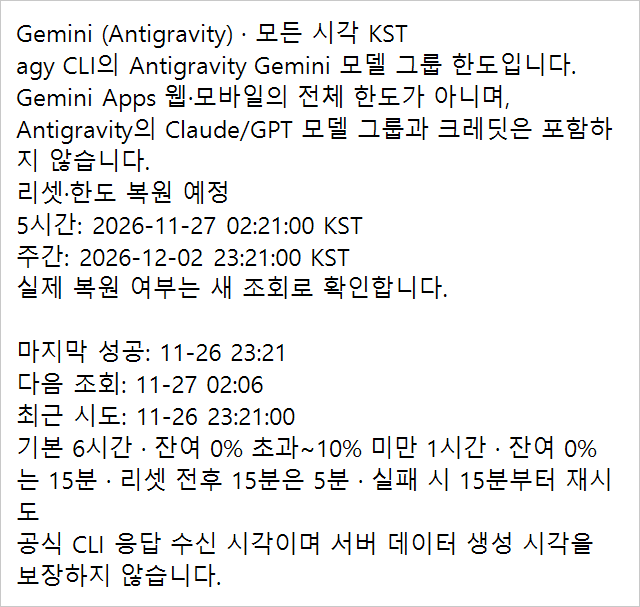
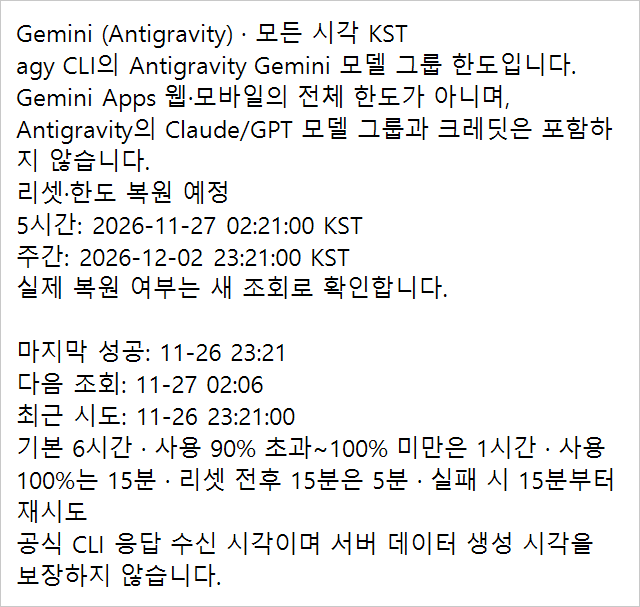
docs: record quota wording revalidation and Mac branch handoff

Changed region(s): [[0.0312, 0.7117, 0.9688, 0.86]]

diff --git a/QUOTA_USAGE_UI.md b/QUOTA_USAGE_UI.md
@@ -8,15 +8,49 @@ Windows 테스트 빌드의 사용량 막대·간략 시간·Provider별 상세 
 
 - [AGENTS.md](AGENTS.md#공개-저장소-계정-정보-보호)에 양쪽 담당의 공개 기록 규칙을 추가했습니다. 실제 계정의 요금제·사용률·리셋 시각·식별자는 PR 본문·코멘트·문서·첨부에 게시하지 않습니다.
 - 이 문서와 PR의 화면 예시는 실제 계정과 무관한 **합성 데이터**입니다. `docs/images/quota-usage/` 4개와 `docs/reviews/windows-quota-tooltip-wrap-20261010/` 3개, PNG 7개 모두 테스트의 가짜 조회 응답과 주입 시각을 사용합니다. 이후 Mac 검증 코멘트도 합성 화면 또는 성공 여부·응답 형식 등 일반화한 결과로 남깁니다.
-- 이번 추가는 지침·문서만 변경하며 앱 코드·검사 데이터·기존 빌드 결과는 바꾸지 않습니다.
+- 공개 기록 규칙 추가(`ca14e2b`)는 지침·문서만 변경했습니다. 이후 공통 문구 보완과 재검증은 아래에 별도로 기록합니다.
+
+## Mac 확인 후 공통 문구 보완 (최신 검증)
+
+Mac의 [최초 확인](https://github.com/hydron75/ai-burger-clock/pull/45#issuecomment-6092683457)은 `0ede78c` 기준입니다. 공통 검사 251,123건·빌드 종료 코드 0, 옛 문구 기대값으로 native smoke 종료 코드 1을 보고했습니다. 이 결과는 아래 수정 후 HEAD의 검증이 아닙니다.
+
+아래는 표시 규칙의 합성 예시이며 실제 계정 값이 아닙니다.
+
+| 변경 전 | 변경 후 |
+|---|---|
+| `약 0시간 N분 후 리셋` | `약 N분 후 리셋` |
+| `약 0일 N시간 후 리셋` | `약 N시간 후 리셋` |
+| `잔여 0% 초과~10% 미만 1시간` | `사용 90% 초과~100% 미만은 1시간` |
+| `잔여 0%는 15분` | `사용 100%는 15분` |
+
+- `DisplayFormatting.CompactResetCountdown`에서 **올림·이월 후 앞의 0 단위만 생략**합니다. 정확히 1시간은 `약 1시간 0분`, 정확히 1일은 `약 1일 0시간`을 유지합니다. 59분 30초는 5시간 창에서 `약 1시간 0분`, 주간 창에서 `약 1시간`입니다. 1분 미만·미제공·경과 처리와 주기 미확인 창의 단위 선택은 그대로입니다.
+- 실제 화면·Provider 상세의 잔여 기준 안내는 `QuotaPanelModel.ProviderDetail`의 위 두 구절뿐이었습니다. 안내만 사용 기준으로 바꾸고 `Tone`, `AccountQuotaPolicy`, 조회·재시도·CLI·DB 코드는 변경하지 않았습니다. Mac의 하드코딩된 제목과 native smoke 기대값은 Mac 담당 수정 대상입니다.
+- `QuotaPresentationTests` 경계값 14건과 Provider별 안내 3건을 추가했습니다. 기존 정확히 1시간·1일 검사도 유지합니다. `PanelModelTests`와 Windows smoke는 기대 문자열만 갱신했습니다.
+
+검증 소스: `58c64505ab6ee5c1fdacb5559517508f4ba631c1`. SDK **10.0.401**.
+
+| 검사 | 보완 전 #45 | 보완 후 | 변화 |
+|---|---:|---:|---:|
+| 공통 검사 | 251,123 | 251,140 | +17 |
+| Windows 전용 self-test | 307 | 307 | 0 |
+| Windows self-test 전체 | 251,430 | 251,447 | +17 |
+| quota usage/countdown/provider detail 그룹 | 53 | 70 | 경계값 +14, 안내 +3 |
+| Windows smoke PASS | 387 | 387 | 0 |
+
+- `build.ps1`: 경고 **0** / 오류 **0**, `--self-test` 프로세스 **ExitCode 0**. 스크립트의 `Start-Process -Wait -PassThru` 실제 프로세스 값도 출력해 확인했습니다.
+- `Shared.Tests`: **251,140건 PASS·종료 코드 0**. 모든 다른 공통 그룹은 수가 같으며 기존 quota schemas/polling policy 143건·panel text/tones 261건도 통과했습니다.
+- Release EXE `--smoke-test --report-directory ...`: **387 PASS·ExitCode 0**. 합성 10초 Gemini 조회는 10.04초, UI heartbeat 49회, 트레이·상태 카운트다운 각 12개 값으로 화면·메뉴 응답 검사를 통과했습니다. 실제 알림 배너 노출 보장은 아닙니다.
+- 이전 #45 대비 PNG **19개 중 13개 SHA-256 동일**, 6개 변경은 간략 시간 행이 있는 한도 화면 3개와 새 안내가 있는 Provider 상세 3개입니다. 상태·공휴일·장애·통계·기록·메모 안내 등 비한도 8개는 모두 동일합니다. 최신 합성 한도·상세 이미지를 아래에 반영했습니다.
+- 로컬 증거: `artifacts/shared-quota-wording-20261010/`의 `build.txt`, `shared-test.txt`, `self-test.txt`, `smoke.txt`, `smoke-errors.txt`, `before/`, `after/`. 원본 로그는 공개 저장소에 올리지 않습니다. 실제 계정 조회·배포 교체는 하지 않았습니다.
+- **이번 결과를 한 번 push한 뒤 Mac 확인 완료 전 추가 push하지 않습니다.** Mac 담당이 같은 #45 브랜치에 native smoke 기대값 커밋을 추가하고 최신 HEAD로 빌드·공통 검사·native smoke를 다시 확인합니다. 새 공통 예상 수는 **251,140건**입니다. 이 재확인 전 병합 보류를 유지합니다.
 
 ## 표시 계약
 
 - 제목은 `개인 계정 사용량`, 행과 막대는 **사용한 비율**입니다. 0%는 빈 막대, 100%는 가득 찬 막대입니다. 행은 소수 한 자리로 표시하되 막대 데이터는 원래 소수 사용률을 유지합니다.
-- 5시간 창(`WindowMinutes=300`)은 `약 N시간 N분 후 리셋`, 주간 창(`10080`)은 `약 N일 N시간 후 리셋`입니다. 마지막 표시 단위를 올림하고 60분/24시간을 이월합니다. 한 시간/하루 미만에도 두 단위를 유지합니다.
+- 5시간 창(`WindowMinutes=300`)은 `약 N시간 N분 후 리셋`, 주간 창(`10080`)은 `약 N일 N시간 후 리셋`입니다. 마지막 표시 단위를 올림하고 60분/24시간을 이월한 뒤 **앞 단위가 0이면 생략**합니다. `약 15분 후 리셋`, `약 7시간 후 리셋`처럼 표시하며 뒤 단위의 0은 유지합니다(`약 1시간 0분`, `약 1일 0시간`).
 - 주기 미확인 창은 남은 기간에 따라 단위를 정합니다. 1분 미만은 `곧 리셋 예정`, null은 `리셋 미제공`, 경과값은 `갱신 대기`입니다. 경과만으로 사용량을 0%로 바꾸지 않습니다.
 - 상세는 **Provider별 하나**입니다. 모든 창의 정확한 `yyyy-MM-dd HH:mm:ss KST` 리셋 예정 시각, 미제공·경과 안내, 마지막 성공·다음 조회·최근 시도, 오류·캐시 오류, 조회 주기와 신선도 한계, 조회 범위를 담습니다. 화면에 이미 있는 사용률을 다시 나열하지 않습니다.
-- 리셋은 예정 시각입니다. 실제 한도 복원은 새 조회로 확인합니다. 사용률 표시로 바꿔도 조회 주기·재시도·잔여량 기준 주의/위험 톤은 바뀌지 않습니다. DB·CLI·네트워크 조회 계약도 그대로입니다.
+- 리셋은 예정 시각입니다. 실제 한도 복원은 새 조회로 확인합니다. 조회 안내도 사용률 기준으로 통일하지만 **주의/위험 톤과 조회 주기·재시도 계산은 변경하지 않습니다.** DB·CLI·네트워크 조회 계약도 그대로입니다.
 
 ## 공통 원본 변경
 
@@ -25,7 +59,7 @@ Windows 테스트 빌드의 사용량 막대·간략 시간·Provider별 상세 
 | `QuotaPanelModel.cs` | 사용량 제목·행·안내, Provider 상세를 직접 생성. `QuotaLine.UsedPercent`는 실제 조회값 또는 null, `QuotaSectionText.Detail`은 Provider 상세. 제목·scope·행·metadata의 Detail은 동일 |
 | `DisplayFormatting.cs` | `CompactResetCountdown`으로 간략 시간·올림·단위 선택을 공통화. 기존 `ResetCountdown`은 유지 |
 | `PanelModelTests.cs` | 기존 골든을 새 표시 계약으로 갱신. 검사 수 261 그대로 |
-| `QuotaPresentationTests.cs` / `SharedTestSuite.cs` | 시간 계산 14건을 Windows smoke에서 이동하고 새 계약 검사 39건 추가. 공통 실행 목록에 한 번 등록 |
+| `QuotaPresentationTests.cs` / `SharedTestSuite.cs` | 시간 계산 14건 이동 + 새 계약 39건 + 이번 경계값·안내 17건 = 70건. 공통 실행 목록에 한 번 등록 |
 
 새 앱 공통 파일은 추가하지 않아 `Shared/SharedSources.props` 목록은 그대로입니다. 새 검사 파일은 기존 glob으로 두 검사 프로젝트에서 컴파일합니다.
 
@@ -37,7 +71,7 @@ Windows 테스트 빌드의 사용량 막대·간략 시간·Provider별 상세 
 - `AccountQuotaUiChecks.cs` / `QuotaToolTipUiChecks.cs`: 실제 WinForms 메시지 루프에서 화면·막대·색·공통 바인딩·접근성·툴팁 배치/닫힘/DPI·긴 상세·Refresh 응답성을 검사합니다.
 - 창 크기는 그대로이고 막대로 늘어난 내용은 한도 영역 안에서 세로 스크롤합니다. 한도 박스에는 hover 효과나 클릭·기록 메뉴를 넣지 않습니다.
 
-## Windows 검증
+## 최초 Windows 검증 (공통 문구 보완 전 기록)
 
 기준 main: `67ec31b13846c63a4c799a360cf232362209eb42`. Windows 테스트 표시 checkpoint: `49ce2cd`. 검증한 최종 C# 소스: `ca288d3446507fb2379748453c65577584695a62`와 같은 작업 트리이며, 이후 변경은 이 기록·합성 PNG와 BACKLOG뿐입니다.
 
@@ -92,7 +126,7 @@ main 배포 소스의 기존 smoke는 293 PASS입니다. 397은 앞선 로컬 UI
 
 이 PR은 공통 코드 변경입니다. **Mac 검증 코멘트가 나오기 전 병합하지 않습니다.** Windows 담당은 `Mac/`·Mac 버전·`MACOS_PORT.md`를 수정하지 않았습니다.
 
-1. 이 PR HEAD를 받아 `Mac/build.sh`와 네이티브 `--smoke-test`를 실행하고, 커밋 해시·SDK/Xcode·경고/오류·공통 assertion 수·smoke 종료 코드를 PR 코멘트로 남겨 주세요. 공통 검사는 **251,123건(+53)**이 예상됩니다. 다르면 그룹별 차이를 알려 주세요.
+1. 공통 문구 보완 push 뒤 같은 #45 브랜치에 Mac smoke 기대값 커밋을 추가해 주세요. 그 최신 HEAD에서 `Mac/build.sh`와 네이티브 `--smoke-test`를 실행하고, 커밋 해시·SDK/Xcode·경고/오류·공통 assertion 수·smoke 종료 코드를 PR 코멘트로 남겨 주세요. 공통 검사는 **251,140건(최초 #45 대비 +17, main 대비 +70)**이 예상됩니다. 다르면 그룹별 차이를 알려 주세요. Windows는 이 확인이 끝날 때까지 추가 push하지 않습니다.
 2. 기존 `QuotaPanelModel.Sections` 호출에서 한도 행과 Detail이 자동으로 바뀝니다. 5시간/주간의 사용률·간략 단위, 정확한 KST 상세, 이전/경과/미제공·조회 실패 상태가 팝오버에 맞게 표시되는지 확인해 주세요. 기존 Mac smoke의 행·툴팁 기대값도 점검해 주세요.
 3. Mac 제목은 지금 `개인 계정 잔여 한도`로 하드코딩되어 있습니다. Mac 후속 반영에서 `QuotaPanelModel.AccessibleName`을 사용해 `개인 계정 사용량`으로 맞춰 주세요.
 4. Mac 후속 반영에서 `QuotaLine.UsedPercent`로 네이티브 사용량 막대를 추가해 주세요. 0% 빈 막대 / 100% 가득 찬 막대, 서비스별 대표색, 이전·경과 값은 Muted로 구분합니다. null에는 막대를 만들지 않습니다. 색·그리기·라이트/다크 대비는 AppKit에서 정합니다.
@@ -104,4 +138,4 @@ main 배포 소스의 기존 smoke는 293 PASS입니다. 397은 앞선 로컬 UI
 
[1 lines of base64/hex data omitted]
 - 사용자 DB·CLI 인증·자동 시작 등록을 테스트에서 변경하지 않았습니다. `--verify-autostart`·실제 계정 조회는 이번 검증에서 실행하지 않았습니다.
-- Mac 빌드·native smoke, 실제 다중 모니터에서 사용자가 포인터를 움직이는 관찰, 실제 한도 리셋/복원, 재부팅·절전·전체 네트워크 단절 검사는 **미수행**입니다. DPI·음수 모니터 좌표·포인터/닫힘은 실제 Windows 팝업과 합성 좌표/이벤트로 검사했으며 실사용 관찰과 구분합니다.
+- 보완 후 HEAD의 Mac 빌드·native smoke는 **미수행 — Mac 담당 기대값 커밋·재확인 대기**입니다. 최초 HEAD의 Mac 코멘트와 구분합니다. 실제 다중 모니터에서 사용자가 포인터를 움직이는 관찰, 실제 한도 리셋/복원, 재부팅·절전·전체 네트워크 단절도 미수행입니다. DPI·음수 모니터 좌표·포인터/닫힘은 실제 Windows 팝업과 합성 좌표/이벤트로 검사했으며 실사용 관찰과 구분합니다.

diff --git a/BACKLOG.md b/BACKLOG.md
@@ -3,8 +3,8 @@
 ## 배포 전: 계정 사용량 막대·Provider 상세 공통화
 
 - 2026-10-10 KST. 사용한 비율·간략 리셋 시간·Provider별 하나의 상세 문구를 공통 모델로 정리하고 Windows 네이티브 막대·흰색 고정 폭 팝업에 연결했다. [범위·Windows 검증·화면·Mac 반영 요청](QUOTA_USAGE_UI.md).
-- Windows build 경고 0·오류 0, self-test 251,430건(공통 251,123 + Windows 307), 최종 smoke 387 PASS·종료 코드 0. 초기 smoke의 오래된 개별 상세 문자열 검사 실패와 보완도 기록에 남겼다.
-- **Mac 검증 전 병합 보류, 미배포.** Mac 코드·버전·배포 2.3.0 EXE는 변경하지 않았다. Mac 제목·사용률 막대·Provider 상세 연결은 Mac 담당 후속 요청이다. 조회 주기·잔여량 기준 경고·DB는 그대로다.
+- Mac 최초 확인 뒤 앞의 0 단위 생략·사용 기준 조회 안내를 보완했다. Windows 재검증: 경고 0·오류 0, self-test 251,447건(공통 251,140 + Windows 307, 보완 전보다 +17), smoke 387 PASS·종료 코드 0. 초기 smoke의 오래된 개별 상세 문자열 검사 실패와 보완도 기록에 남겼다.
+- **Mac 재확인 전 병합 보류, 미배포.** 이번 push 뒤 Mac이 같은 #45 브랜치에 native smoke 기대값 커밋을 추가·검증할 때까지 Windows 추가 push는 하지 않는다. Windows 담당은 Mac 코드·버전·배포 2.3.0 EXE를 변경하지 않았다. Mac 제목·사용률 막대·Provider 상세 연결은 Mac 담당 후속 요청이다. 조회 주기·주의/위험 판정·DB는 그대로다.
 
 ## Windows 2.3.0에 반영
 
